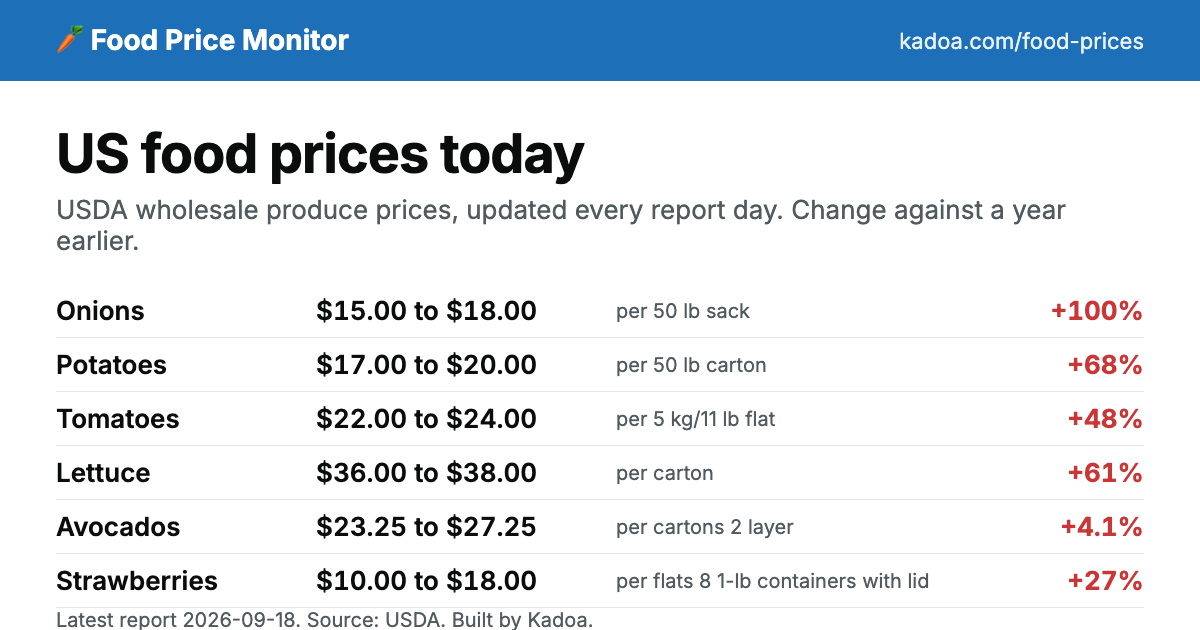
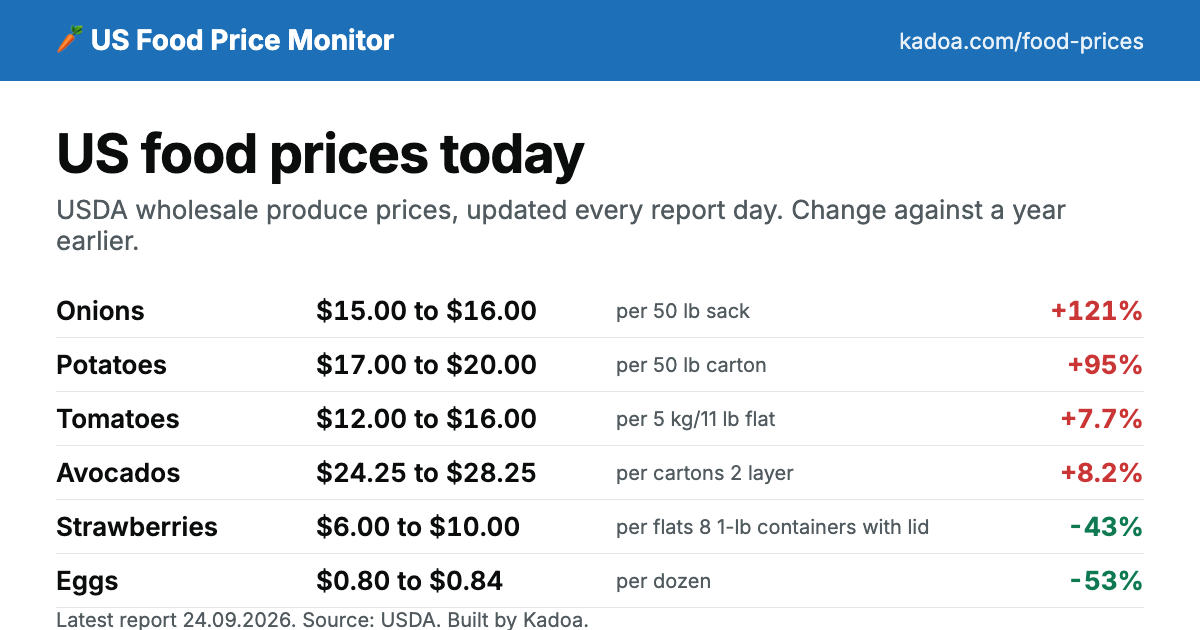
Cut a daily publish from twenty minutes to four
The bulk CSV downloads were the whole problem: 758 MB across 332 commodities,
with potatoes alone at 81 MB, re-uploaded in full every run because page files
live in a per-run folder. They compress by 86 per cent, so they are now written
gzipped and the link says so. Total upload for a day fell from about a gigabyte
to 114 MB, and the run from twenty minutes to four.

Three failures that made it worse are fixed too. Requests had no timeout, so a
dead socket stranded a worker and the run sat at 6,000 of 6,178 files forever;
uploads now time out on a budget that scales with the payload, because a flat
sixty seconds was generous for a 2 KB series file and far too tight for a 6 MB
download. The run folder was named from the wall clock, so every retry of a
failed publish minted a new folder and re-uploaded everything; it is now named
after the data it carries, so a retry resumes and skips what is already there.
And orphan deletion ran one request at a time, which cost half an hour on a day
with ten thousand orphans, long after the site was already live.

diff --git a/src/App.jsx b/src/App.jsx
@@ -7,7 +7,9 @@ import BandChart from './BandChart';
 import EvidenceDialog from './EvidenceDialog';
 
 const url = (slug) => `${BASE}/commodity/${slug}`;
-function Download({ slug, common, children = 'Download CSV' }) { return <a className="dk-btn" href={`${dataPath(common)}/downloads/${slug}.csv`} download>{children}</a>; }
+// The file is gzipped: a full history runs to tens of megabytes as plain CSV, and compressing it is what keeps a
+// daily publish to minutes rather than a gigabyte of upload. The label says so rather than surprising anyone.
+function Download({ slug, common, children = 'Download CSV (gzip)' }) { return <a className="dk-btn" href={`${dataPath(common)}/downloads/${slug}.csv.gz`} download>{children}</a>; }
 export function Shell({ page, children }) {
   const kind = page?.kind;
   const [search, setSearch] = useState(false);
